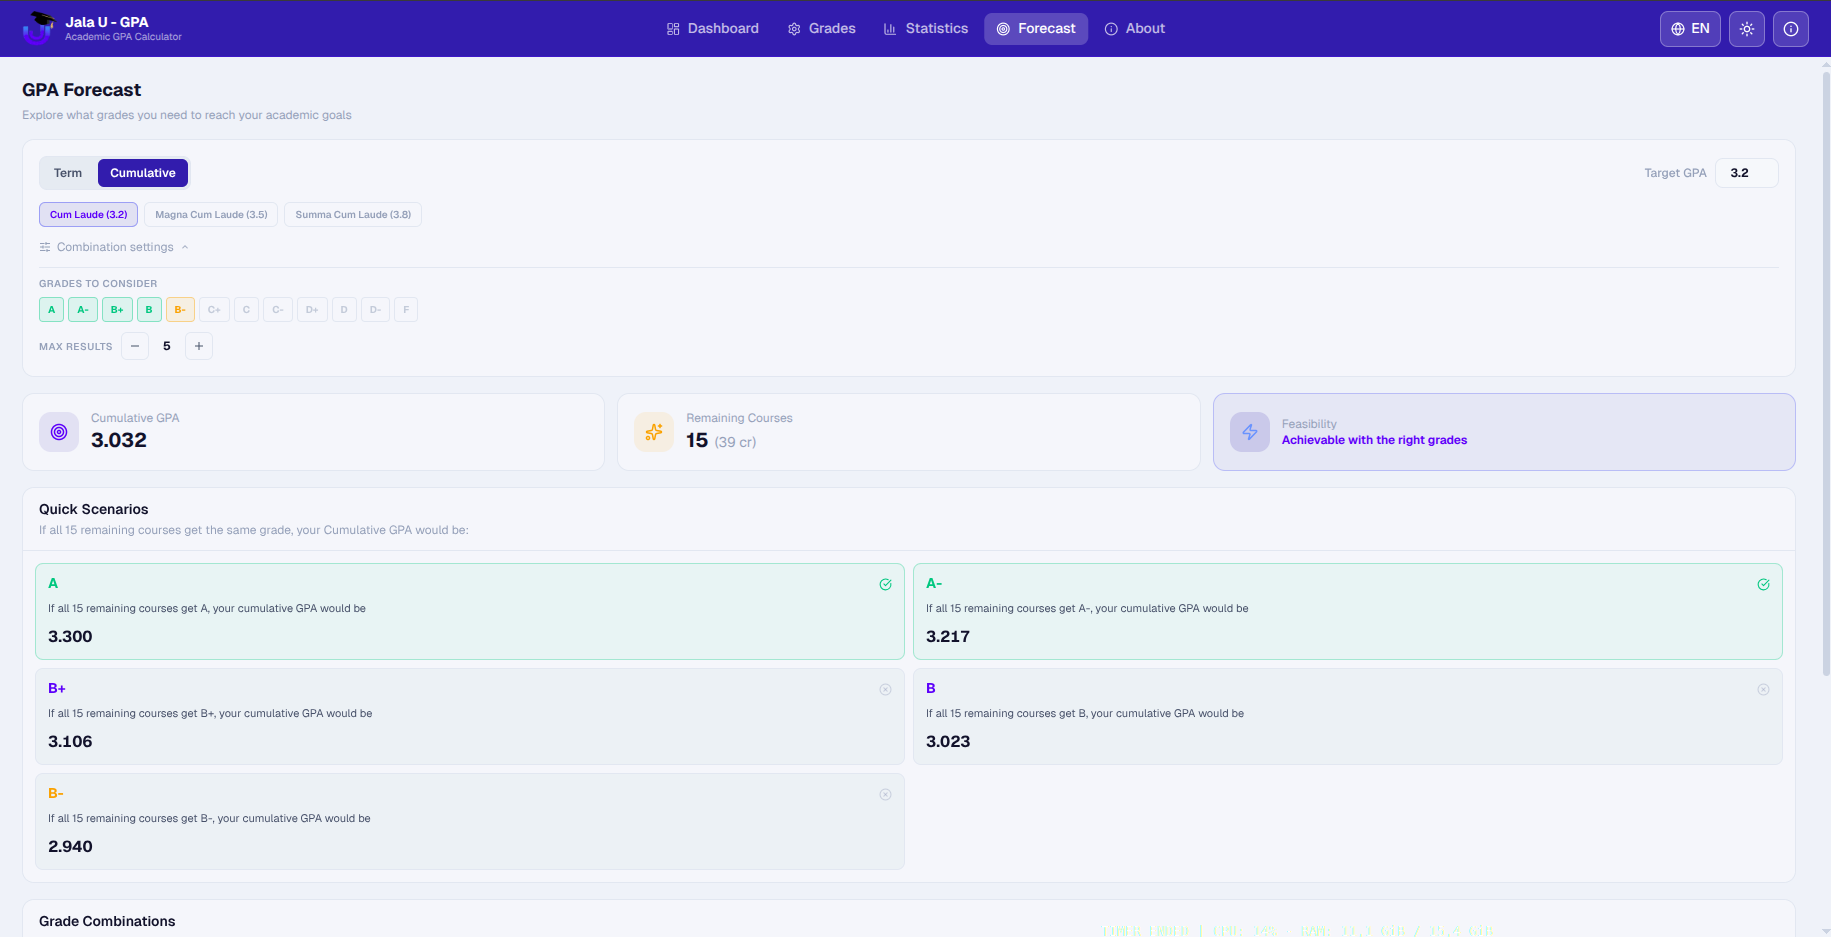
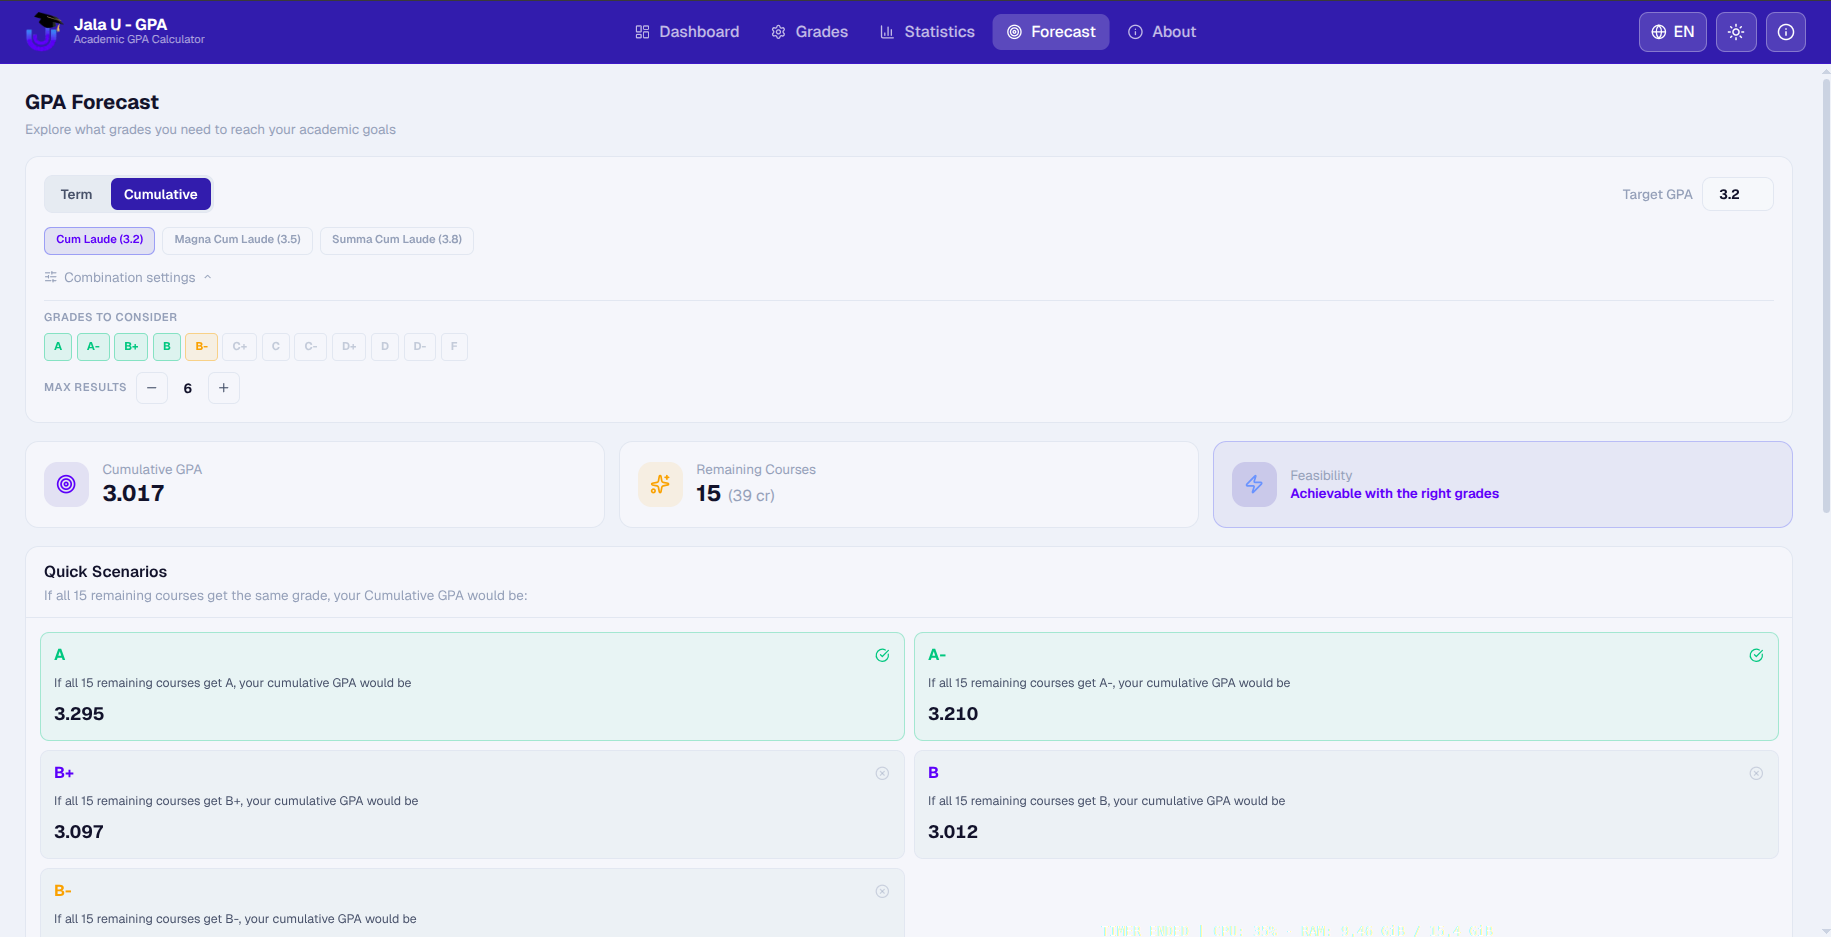
fix: Improve forecast page for a better UI/UX experience

diff --git a/client/src/features/forecast/components/ForecastPanel.tsx b/client/src/features/forecast/components/ForecastPanel.tsx
@@ -14,6 +14,7 @@ import {
   Zap,
   Minus,
   Plus,
+  Info,
 } from "lucide-react";
 import { useTranslations } from "next-intl";
 import { useGpaStore } from "@/features/gpa/store/useGpaStore";
@@ -90,14 +91,23 @@ export function ForecastPanel() {
   const [allowedGrades, setAllowedGrades] = useState<LetterGrade[]>(savedConfig.allowedGrades);
   const [maxCombinations, setMaxCombinations] = useState(savedConfig.maxCombinations);
   const [showConfig, setShowConfig] = useState(false);
-  const [refreshKey, setRefreshKey] = useState(0);
-  const [isRefreshing, setIsRefreshing] = useState(false);
+  const changeCounterRef = useRef(0);
+  const [displayedChange, setDisplayedChange] = useState(0);
   const refreshTimerRef = useRef<ReturnType<typeof setTimeout> | null>(null);
 
   const parsedTarget = parseFloat(targetGpa);
   const validTarget = !isNaN(parsedTarget) && parsedTarget > 0 && parsedTarget <= 4.0;
 
   const honorPresets = scope === "term" ? TERM_HONOR_PRESETS : CAREER_HONOR_PRESETS;
+
+  const inputsKey = `${scope}-${termId}-${targetGpa}-${allowedGrades.join(",")}-${maxCombinations}`;
+  const prevInputsRef = useRef(inputsKey);
+  if (prevInputsRef.current !== inputsKey) {
+    prevInputsRef.current = inputsKey;
+    changeCounterRef.current += 1;
+  }
+
+  const isRefreshing = changeCounterRef.current !== displayedChange;
 
   const result = useMemo(() => {
     if (!validTarget) return null;
@@ -110,17 +120,16 @@ export function ForecastPanel() {
       allowedGrades.length > 0 ? allowedGrades : ["A"],
       maxCombinations,
     );
-  }, [grades, terms, scope, termId, parsedTarget, validTarget, allowedGrades, maxCombinations, refreshKey]);
+  }, [grades, terms, scope, termId, parsedTarget, validTarget, allowedGrades, maxCombinations]);
 
   useEffect(() => {
-    setIsRefreshing(true);
     if (refreshTimerRef.current) clearTimeout(refreshTimerRef.current);
-    refreshTimerRef.current = setTimeout(() => setIsRefreshing(false), 350);
-    setRefreshKey((k) => k + 1);
+    const target = changeCounterRef.current;
+    refreshTimerRef.current = setTimeout(() => setDisplayedChange(target), 350);
     return () => {
       if (refreshTimerRef.current) clearTimeout(refreshTimerRef.current);
     };
-  }, [scope, termId, targetGpa, allowedGrades, maxCombinations]);
+  }, [inputsKey]);
 
   useEffect(() => {
     saveForecastConfig({ scope, termId, targetGpa, allowedGrades, maxCombinations });
@@ -257,6 +266,7 @@ export function ForecastPanel() {
         </div>
 
         <button
+          data-tour="forecast-config"
           onClick={() => setShowConfig(!showConfig)}
           className="flex items-center gap-1.5 text-xs text-text-muted hover:text-text-secondary transition-colors self-start"
         >
@@ -349,7 +359,7 @@ export function ForecastPanel() {
       ) : (
         result && (
           <motion.div
-            key={`results-${refreshKey}`}
+            key={`results-${displayedChange}`}
             initial={{ opacity: 0 }}
             animate={{ opacity: 1 }}
             transition={{ duration: 0.2 }}
@@ -609,7 +619,7 @@ function ForecastResults({
               {t("combinations_desc")}
             </p>
           </div>
-          <div className="p-3 flex flex-col gap-2">
+          <div className="p-3 grid grid-cols-1 sm:grid-cols-2 gap-2">
             {result.combinations.length > 0 ? (
               result.combinations.map((combo, i) => (
                 <CombinationCard
@@ -627,6 +637,25 @@ function ForecastResults({
           </div>
         </motion.div>
       )}
+
+      <motion.div
+        initial={{ opacity: 0, y: 8 }}
+        animate={{ opacity: 1, y: 0 }}
+        transition={{ duration: 0.3, delay: 0.24 }}
+        className="flex flex-col gap-2 rounded-xl border border-border-base bg-bg-surface/80 backdrop-blur-sm p-4"
+      >
+        <div className="flex items-center gap-2">
+          <Info size={14} className="text-text-muted shrink-0" />
+          <h3 className="text-xs font-semibold text-text-secondary">
+            {t("disclaimer_title")}
+          </h3>
+        </div>
+        <ul className="flex flex-col gap-1.5 text-[11px] text-text-muted leading-relaxed list-disc pl-5">
+          <li>{t("disclaimer_algorithm")}</li>
+          <li>{t("disclaimer_credits")}</li>
+          <li>{t("disclaimer_not_official")}</li>
+        </ul>
+      </motion.div>
     </div>
   );
 }
@@ -638,14 +667,9 @@ function CombinationCard({
   index: number;
   combination: NonNullable<ReturnType<typeof forecast>>["combinations"][number];
 }) {
-  const sortedEntries = Object.entries(combination.distribution).sort(
-    ([a], [b]) =>
-      letterGradesMap[b as LetterGrade] - letterGradesMap[a as LetterGrade],
-  );
-
   return (
-    <div className="flex flex-col sm:flex-row sm:items-center gap-2 sm:gap-4 p-3 rounded-lg border border-border-base bg-bg-elevated/50">
-      <div className="flex items-center gap-2 shrink-0">
+    <div className="flex flex-col gap-2 p-3 rounded-lg border border-border-base bg-bg-elevated/50">
+      <div className="flex items-center gap-2">
         <span className="flex items-center justify-center w-6 h-6 rounded-md bg-jala-700/10 text-[10px] font-bold text-text-accent">
           {index + 1}
         </span>
@@ -653,23 +677,32 @@ function CombinationCard({
           {combination.projectedGpa.toFixed(3)}
         </span>
       </div>
-      <div className="flex flex-wrap gap-1.5 flex-1">
-        {sortedEntries.map(([grade, count]) => (
-          <span
-            key={grade}
-            className={cn(
-              "inline-flex items-center gap-1 px-2 py-0.5 rounded-md text-[10px] font-bold border",
-              letterGradesMap[grade as LetterGrade] >= 3.7
-                ? "border-success/30 bg-success/8 text-success"
-                : letterGradesMap[grade as LetterGrade] >= 3.0
-                  ? "border-jala-500/30 bg-jala-700/8 text-text-accent"
-                  : letterGradesMap[grade as LetterGrade] >= 2.0
-                    ? "border-warning/30 bg-warning/8 text-warning"
-                    : "border-danger/30 bg-danger/8 text-danger",
-            )}
-          >
-            {count}&times;{grade}
-          </span>
+      <div className="flex flex-col gap-1.5">
+        {combination.allocations.map((alloc) => (
+          <div key={alloc.grade} className="flex flex-wrap items-center gap-1">
+            <span
+              className={cn(
+                "inline-flex items-center gap-1 px-2 py-0.5 rounded-md text-[10px] font-bold border shrink-0",
+                letterGradesMap[alloc.grade] >= 3.7
+                  ? "border-success/30 bg-success/8 text-success"
+                  : letterGradesMap[alloc.grade] >= 3.0
+                    ? "border-jala-500/30 bg-jala-700/8 text-text-accent"
+                    : letterGradesMap[alloc.grade] >= 2.0
+                      ? "border-warning/30 bg-warning/8 text-warning"
+                      : "border-danger/30 bg-danger/8 text-danger",
+              )}
+            >
+              {alloc.count}&times;{alloc.grade}
+            </span>
+            {alloc.creditGroups.map((cg) => (
+              <span
+                key={cg.credits}
+                className="inline-flex items-center px-1.5 py-0.5 rounded text-[9px] font-semibold tabular-nums bg-bg-elevated border border-border-base text-text-muted"
+              >
+                {cg.count}&times;{cg.credits}cr
+              </span>
+            ))}
+          </div>
         ))}
       </div>
     </div>

diff --git a/client/src/features/forecast/services/forecast.ts b/client/src/features/forecast/services/forecast.ts
@@ -29,8 +29,14 @@ export interface UniformScenario {
   meetsTarget: boolean;
 }
 
+export interface GradeAllocation {
+  grade: LetterGrade;
+  count: number;
+  creditGroups: { credits: number; count: number }[];
+}
+
 export interface GradeCombination {
-  distribution: Partial<Record<LetterGrade, number>>;
+  allocations: GradeAllocation[];
   projectedGpa: number;
 }
 
@@ -178,9 +184,21 @@ export function findCombinations(
     const qp =
       ctx.currentQualityPoints +
       courseCredits.reduce((s, cr) => s + letterGradesMap[lowestGrade] * cr, 0);
+    const creditMap: Record<number, number> = {};
+    courseCredits.forEach((cr) => {
+      creditMap[cr] = (creditMap[cr] ?? 0) + 1;
+    });
     return [
       {
-        distribution: { [lowestGrade]: K },
+        allocations: [
+          {
+            grade: lowestGrade,
+            count: K,
+            creditGroups: Object.entries(creditMap)
+              .map(([cr, cnt]) => ({ credits: Number(cr), count: cnt }))
+              .sort((a, b) => b.credits - a.credits),
+          },
+        ],
         projectedGpa: qp / totalAC,
       },
     ];
@@ -208,11 +226,28 @@ export function findCombinations(
       }
       if (qp >= neededQP) {
         const gpa = (ctx.currentQualityPoints + qp) / totalAC;
-        const distribution: Partial<Record<LetterGrade, number>> = {};
+        const allocations: GradeAllocation[] = [];
+        let ci = 0;
         for (let g = 0; g < G; g++) {
-          if (dist[g] > 0) distribution[grades[g]] = dist[g];
+          if (dist[g] > 0) {
+            const creditMap: Record<number, number> = {};
+            for (let j = 0; j < dist[g]; j++) {
+              const cr = courseCredits[ci];
+              creditMap[cr] = (creditMap[cr] ?? 0) + 1;
+              ci++;
+            }
+            allocations.push({
+              grade: grades[g],
+              count: dist[g],
+              creditGroups: Object.entries(creditMap)
+                .map(([cr, cnt]) => ({ credits: Number(cr), count: cnt }))
+                .sort((a, b) => b.credits - a.credits),
+            });
+          } else {
+            ci += dist[g];
+          }
         }
-        results.push({ distribution, projectedGpa: gpa });
+        results.push({ allocations, projectedGpa: gpa });
       }
       dist.pop();
       return;
@@ -250,14 +285,29 @@ function findCombinationsGreedy(
 
   function buildFromAssignment(assignment: number[]): GradeCombination {
     let qp = 0;
-    const distribution: Partial<Record<LetterGrade, number>> = {};
+    const gradeCreditsMap: Record<string, Record<number, number>> = {};
     for (let i = 0; i < K; i++) {
       qp += gradeValues[assignment[i]] * courseCredits[i];
       const grade = grades[assignment[i]];
-      distribution[grade] = (distribution[grade] ?? 0) + 1;
+      if (!gradeCreditsMap[grade]) gradeCreditsMap[grade] = {};
+      gradeCreditsMap[grade][courseCredits[i]] =
+        (gradeCreditsMap[grade][courseCredits[i]] ?? 0) + 1;
     }
+    const allocations: GradeAllocation[] = [];
+    for (const [grade, creditMap] of Object.entries(gradeCreditsMap)) {
+      allocations.push({
+        grade: grade as LetterGrade,
+        count: Object.values(creditMap).reduce((s, c) => s + c, 0),
+        creditGroups: Object.entries(creditMap)
+          .map(([cr, cnt]) => ({ credits: Number(cr), count: cnt }))
+          .sort((a, b) => b.credits - a.credits),
+      });
+    }
+    allocations.sort(
+      (a, b) => letterGradesMap[b.grade] - letterGradesMap[a.grade],
+    );
     return {
-      distribution,
+      allocations,
       projectedGpa: (ctx.currentQualityPoints + qp) / totalAC,
     };
   }

diff --git a/client/src/features/config/components/RetakeModal.tsx b/client/src/features/config/components/RetakeModal.tsx
@@ -182,7 +182,9 @@ export function RetakeModal({ isOpen, course, entry, onSave, onClose }: RetakeMo
 
   useEffect(() => {
     if (isOpen) {
-      if (isCourseAttempts(entry) && entry.length > 0 && !isCreditOverrideOnly(entry)) {
+      const isSingleApproved =
+        isCourseAttempts(entry) && entry.length === 1 && entry[0].approved && entry[0].grade !== null;
+      if (isCourseAttempts(entry) && entry.length > 0 && !isCreditOverrideOnly(entry) && !isSingleApproved) {
         setView("managing");
         setAttempts([...entry] as CourseAttempt[]);
       } else {
@@ -231,8 +233,17 @@ export function RetakeModal({ isOpen, course, entry, onSave, onClose }: RetakeMo
   };
 
   const handleRevert = () => {
-    const effectiveGrade = getEffectiveGrade(entry);
-    onSave(effectiveGrade);
+    const source = attempts.length > 0 ? attempts : null;
+    const grade = getEffectiveGrade(source ?? entry);
+    const effectiveAttempt = source?.find((a) => a.approved && a.grade !== null)
+      ?? source?.[source.length - 1];
+    const credits = effectiveAttempt?.credits ?? course.credits;
+
+    if (grade && credits !== course.credits) {
+      onSave([{ credits, grade, approved: true }]);
+    } else {
+      onSave(grade);
+    }
   };
 
   const handleSave = () => {

diff --git a/client/src/features/tour/hooks/useTourSteps.ts b/client/src/features/tour/hooks/useTourSteps.ts
@@ -206,6 +206,14 @@ export function useTourSteps(): TourStep[] {
     },
     {
       route: "/forecast",
+      target: '[data-tour="forecast-config"]',
+      placement: "bottom",
+      title: t("forecast_config_title"),
+      content: t("forecast_config_content"),
+      disableBeacon: true,
+    },
+    {
+      route: "/forecast",
       target: "body",
       placement: "center",
       title: t("done_title"),
